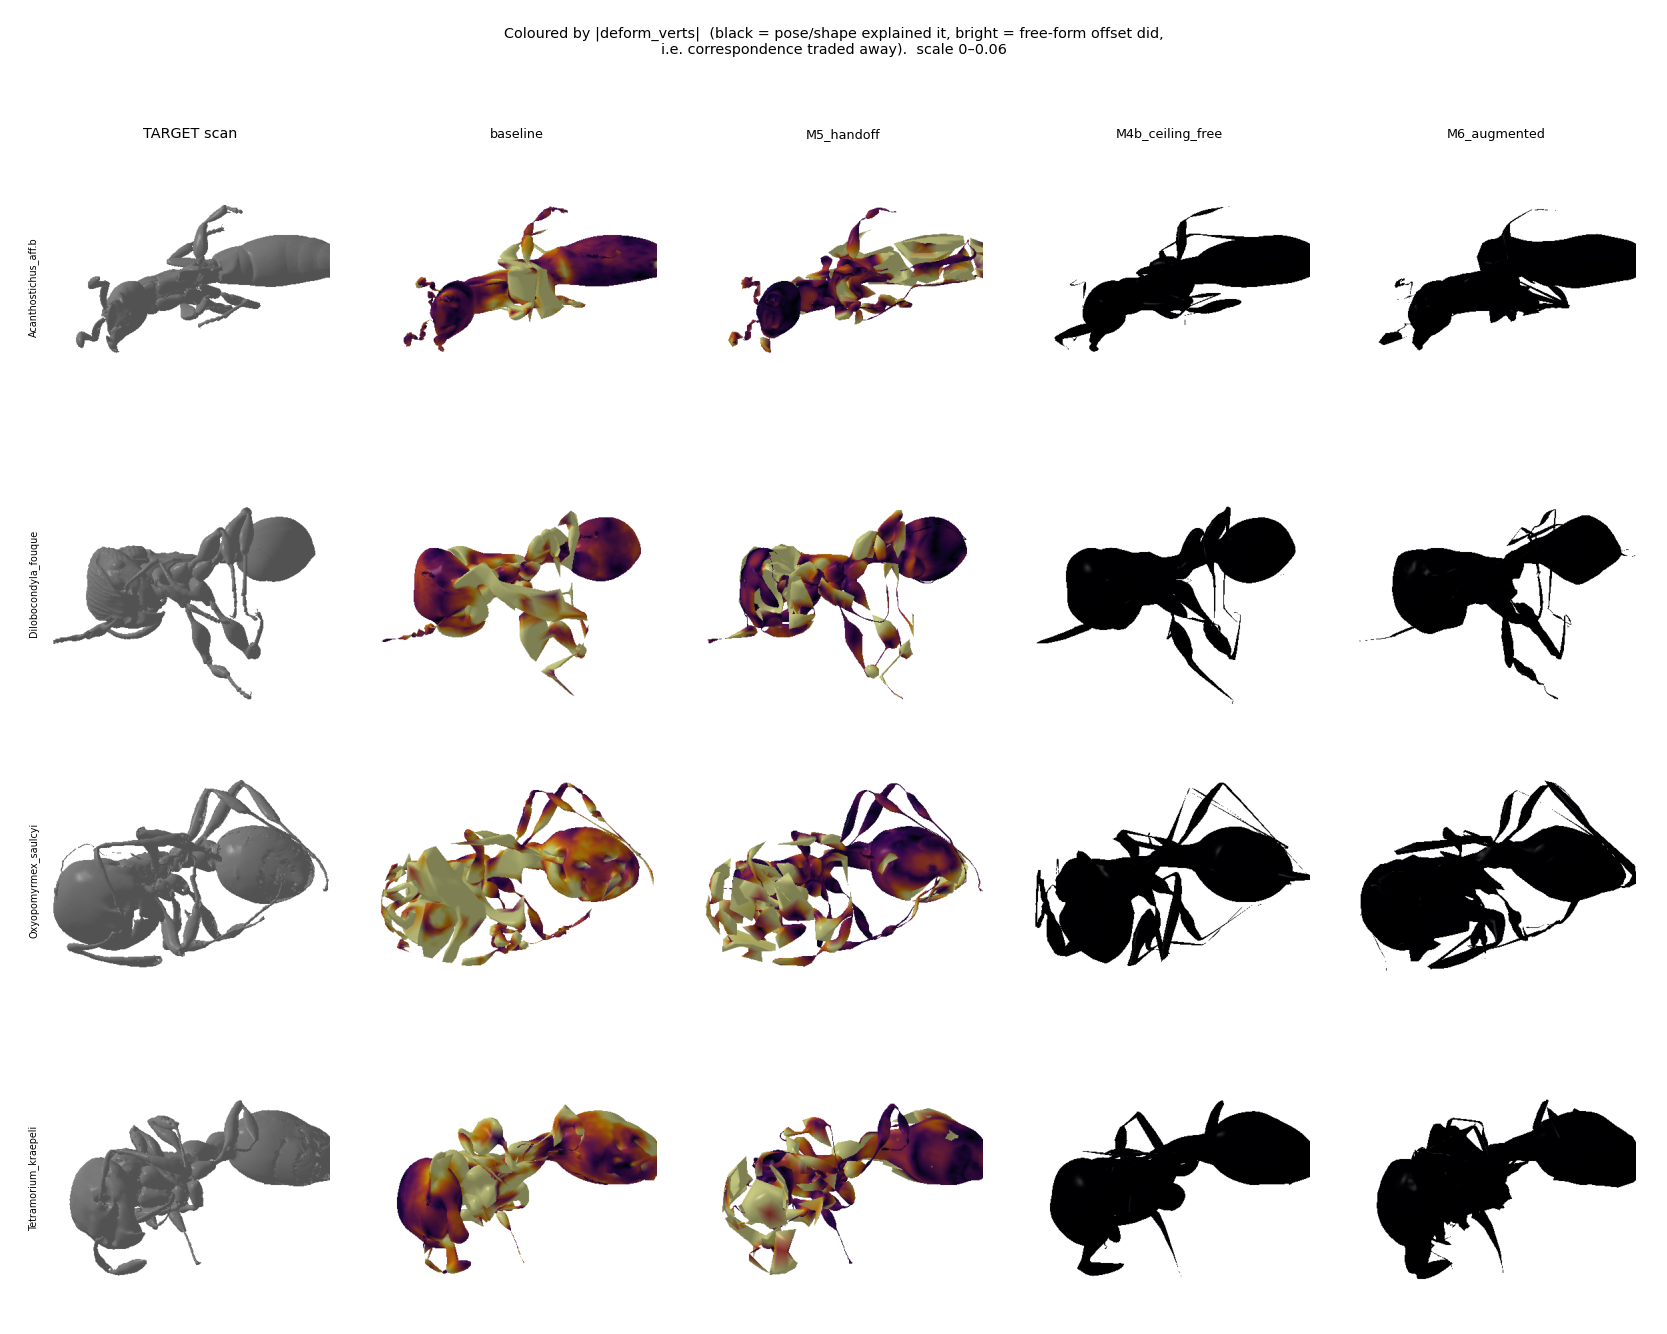
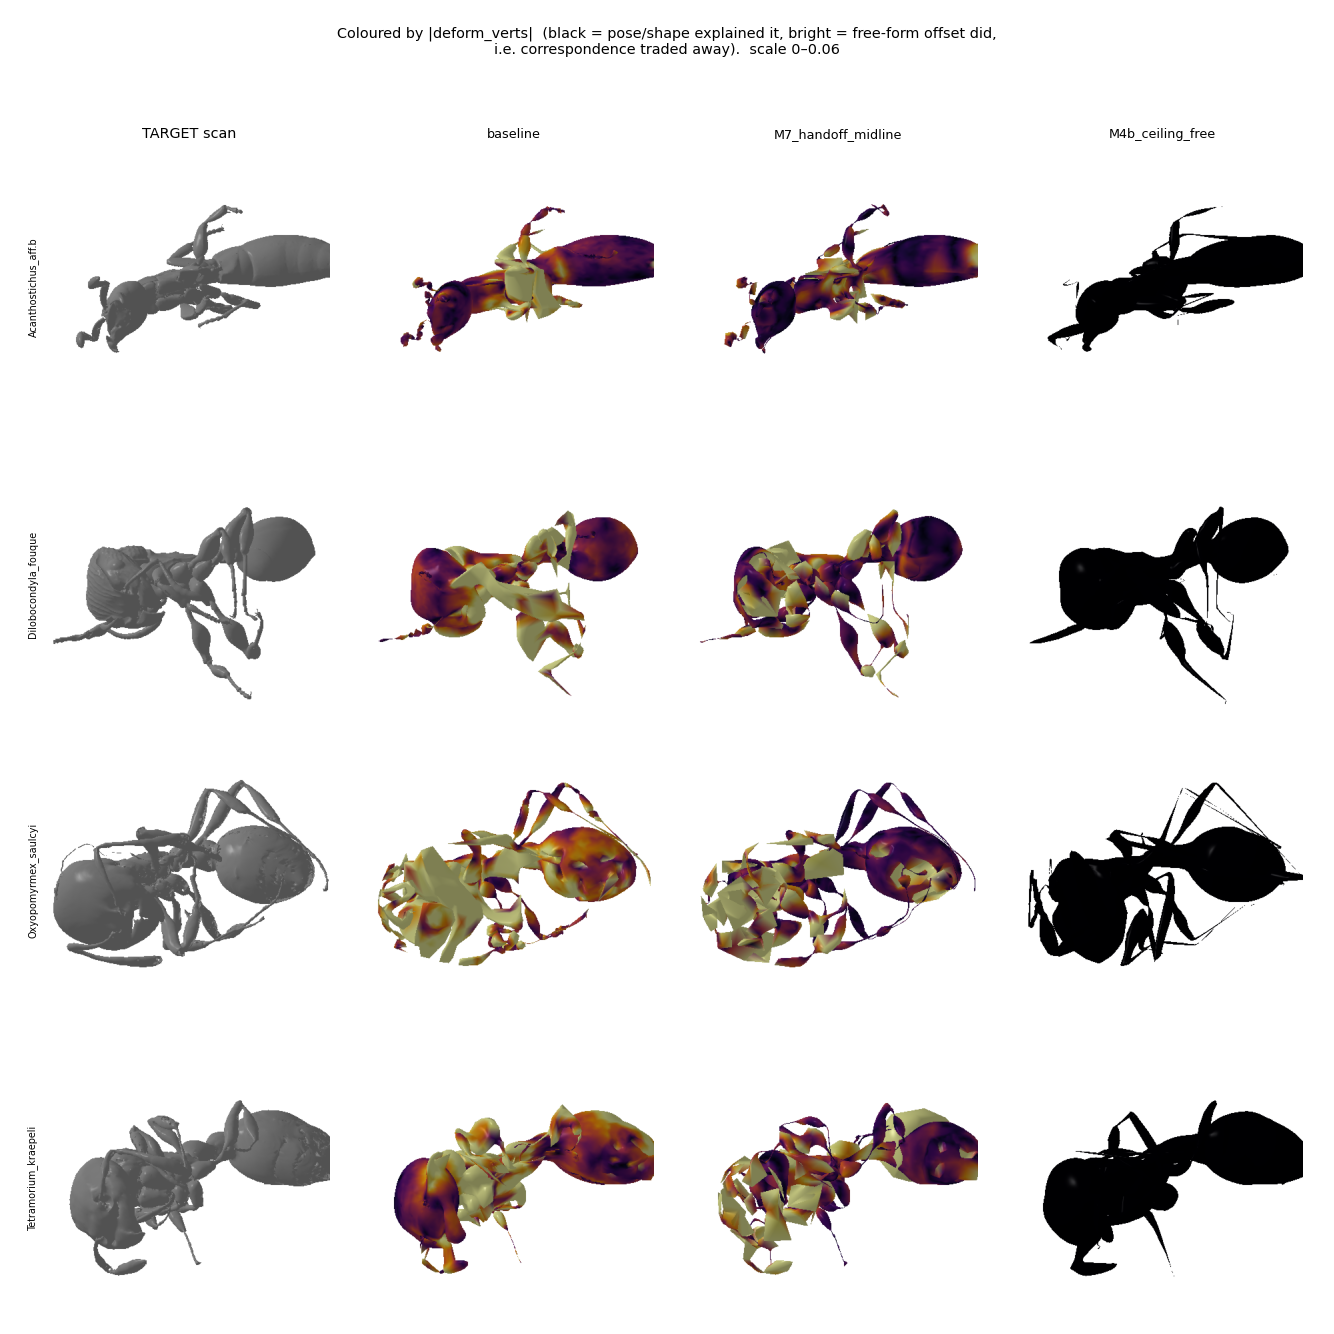
moonshot: honest visual caveat on the recommended arm
The renders show M7_handoff_midline still looks much closer to the shrink-wrapped baseline
than to the undeformed M4b fit, despite measuring -52% deform magnitude and winning 9 of 11
metrics. Said so explicitly in the report rather than letting the numbers oversell: the
free-form regime still produces meshes that do not read as ants, and closing that needs a
larger shape space, not more loss engineering.

diff --git a/diagnostics/moonshot/REPORT.md b/diagnostics/moonshot/REPORT.md
@@ -158,11 +158,21 @@ distortion** — and it is the fit that visually looks like an ant:
 
 ![3D deform comparison](out/renders3d/render3d_deform.png)
 
-Read the columns: baseline and A4 are washed in bright orange (free-form deformation
-everywhere), meshes bloated and smeared, legs turned into thick ribbons. `M4b_ceiling_free`
-is entirely black — no free-form deformation at all — with a clean silhouette, distinct
-legs, proper gaster and head. **The surface metrics reward the shrink-wrap; the pose+shape
-fit is the one with real anatomy.**
+Read the columns: the stock baseline is washed in bright orange (free-form deformation
+everywhere), meshes bloated and smeared, legs turned into thick ribbons.
+`M4b_ceiling_free` is entirely black — no free-form deformation at all — with a clean
+silhouette, distinct legs, proper gaster and head. **The surface metrics reward the
+shrink-wrap; the pose+shape fit is the one with real anatomy.**
+
+**An honest caveat on the recommended arm.** `M7_handoff_midline` sits in the middle
+column-wise and, visually, still looks much closer to the baseline than to M4b — its gaster
+is noticeably darker (less deformed), consistent with the measured −52% deform magnitude,
+but the thorax is still heavily orange and the overall mesh still reads as melted rather
+than as an ant. The metrics say M7 is better than the baseline on 9 of 11 axes and I believe
+them, but nobody should look at this figure and conclude the problem is solved. **The
+free-form regime still produces meshes that do not look like ants; M7 reduces that, it does
+not remove it.** Removing it requires §6 — a shape space big enough that the offsets are not
+needed — not more loss engineering.
 
 ![3D error comparison](out/renders3d/render3d_error.png)
 
